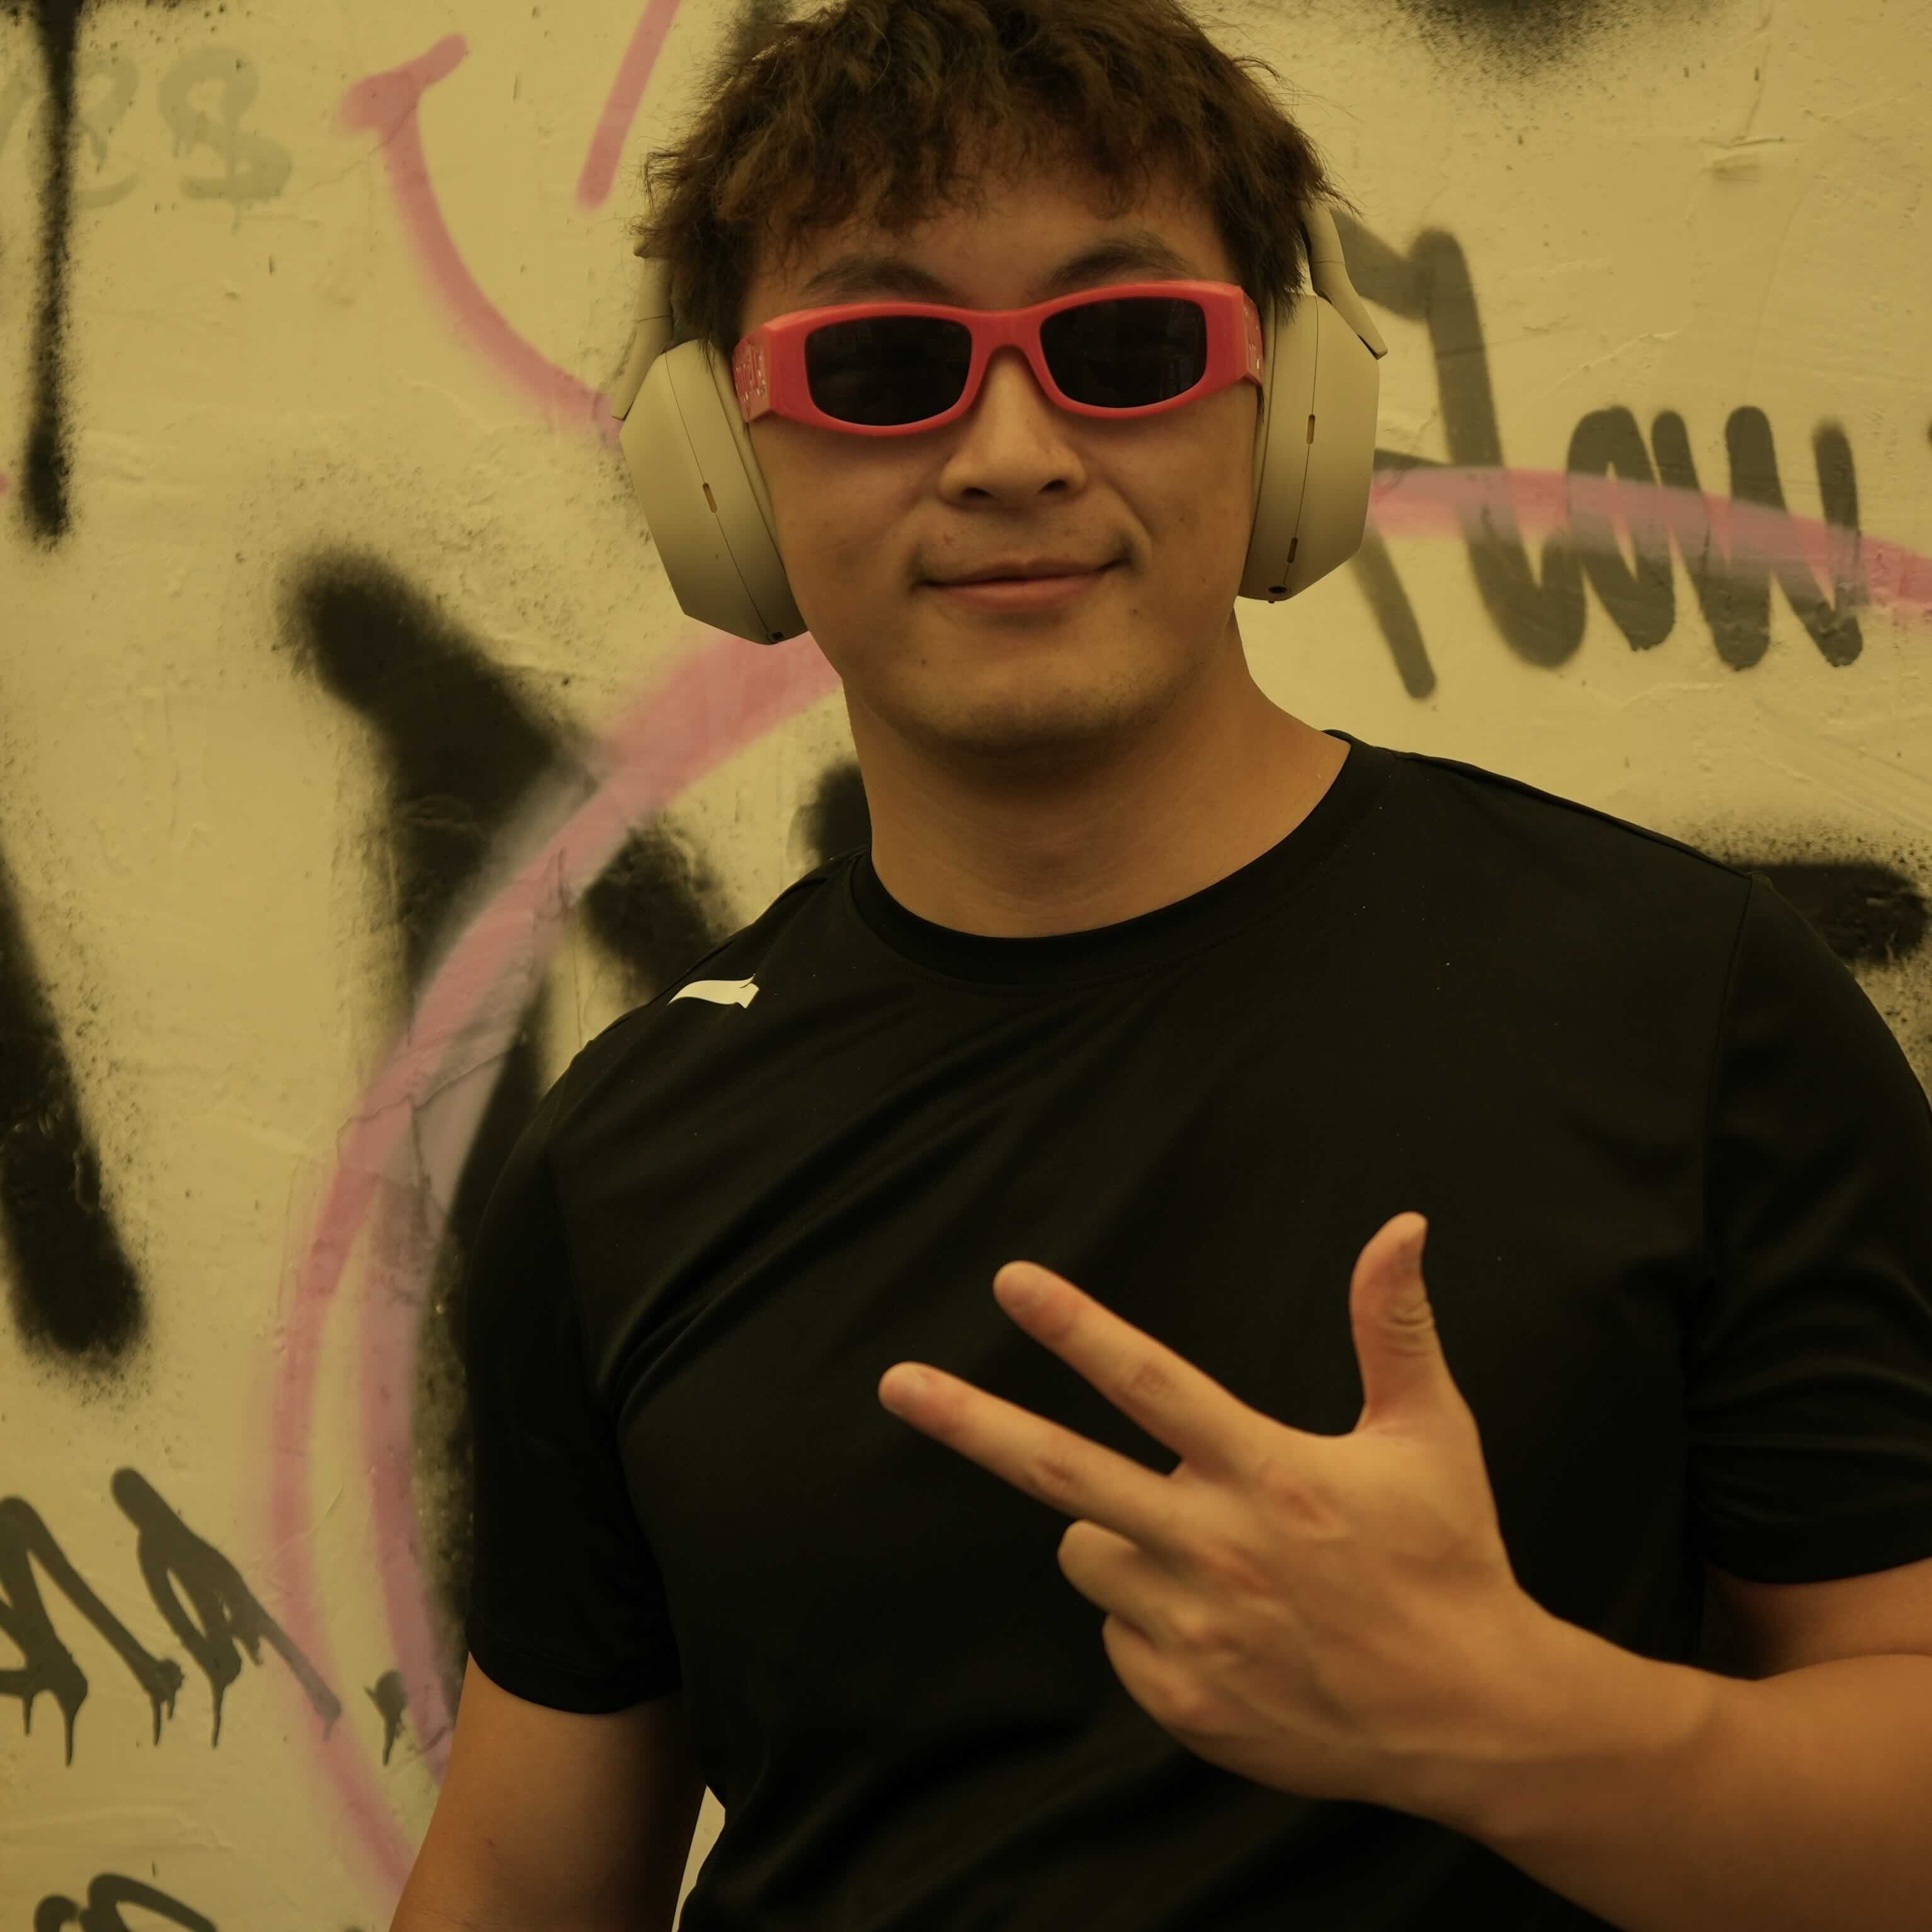
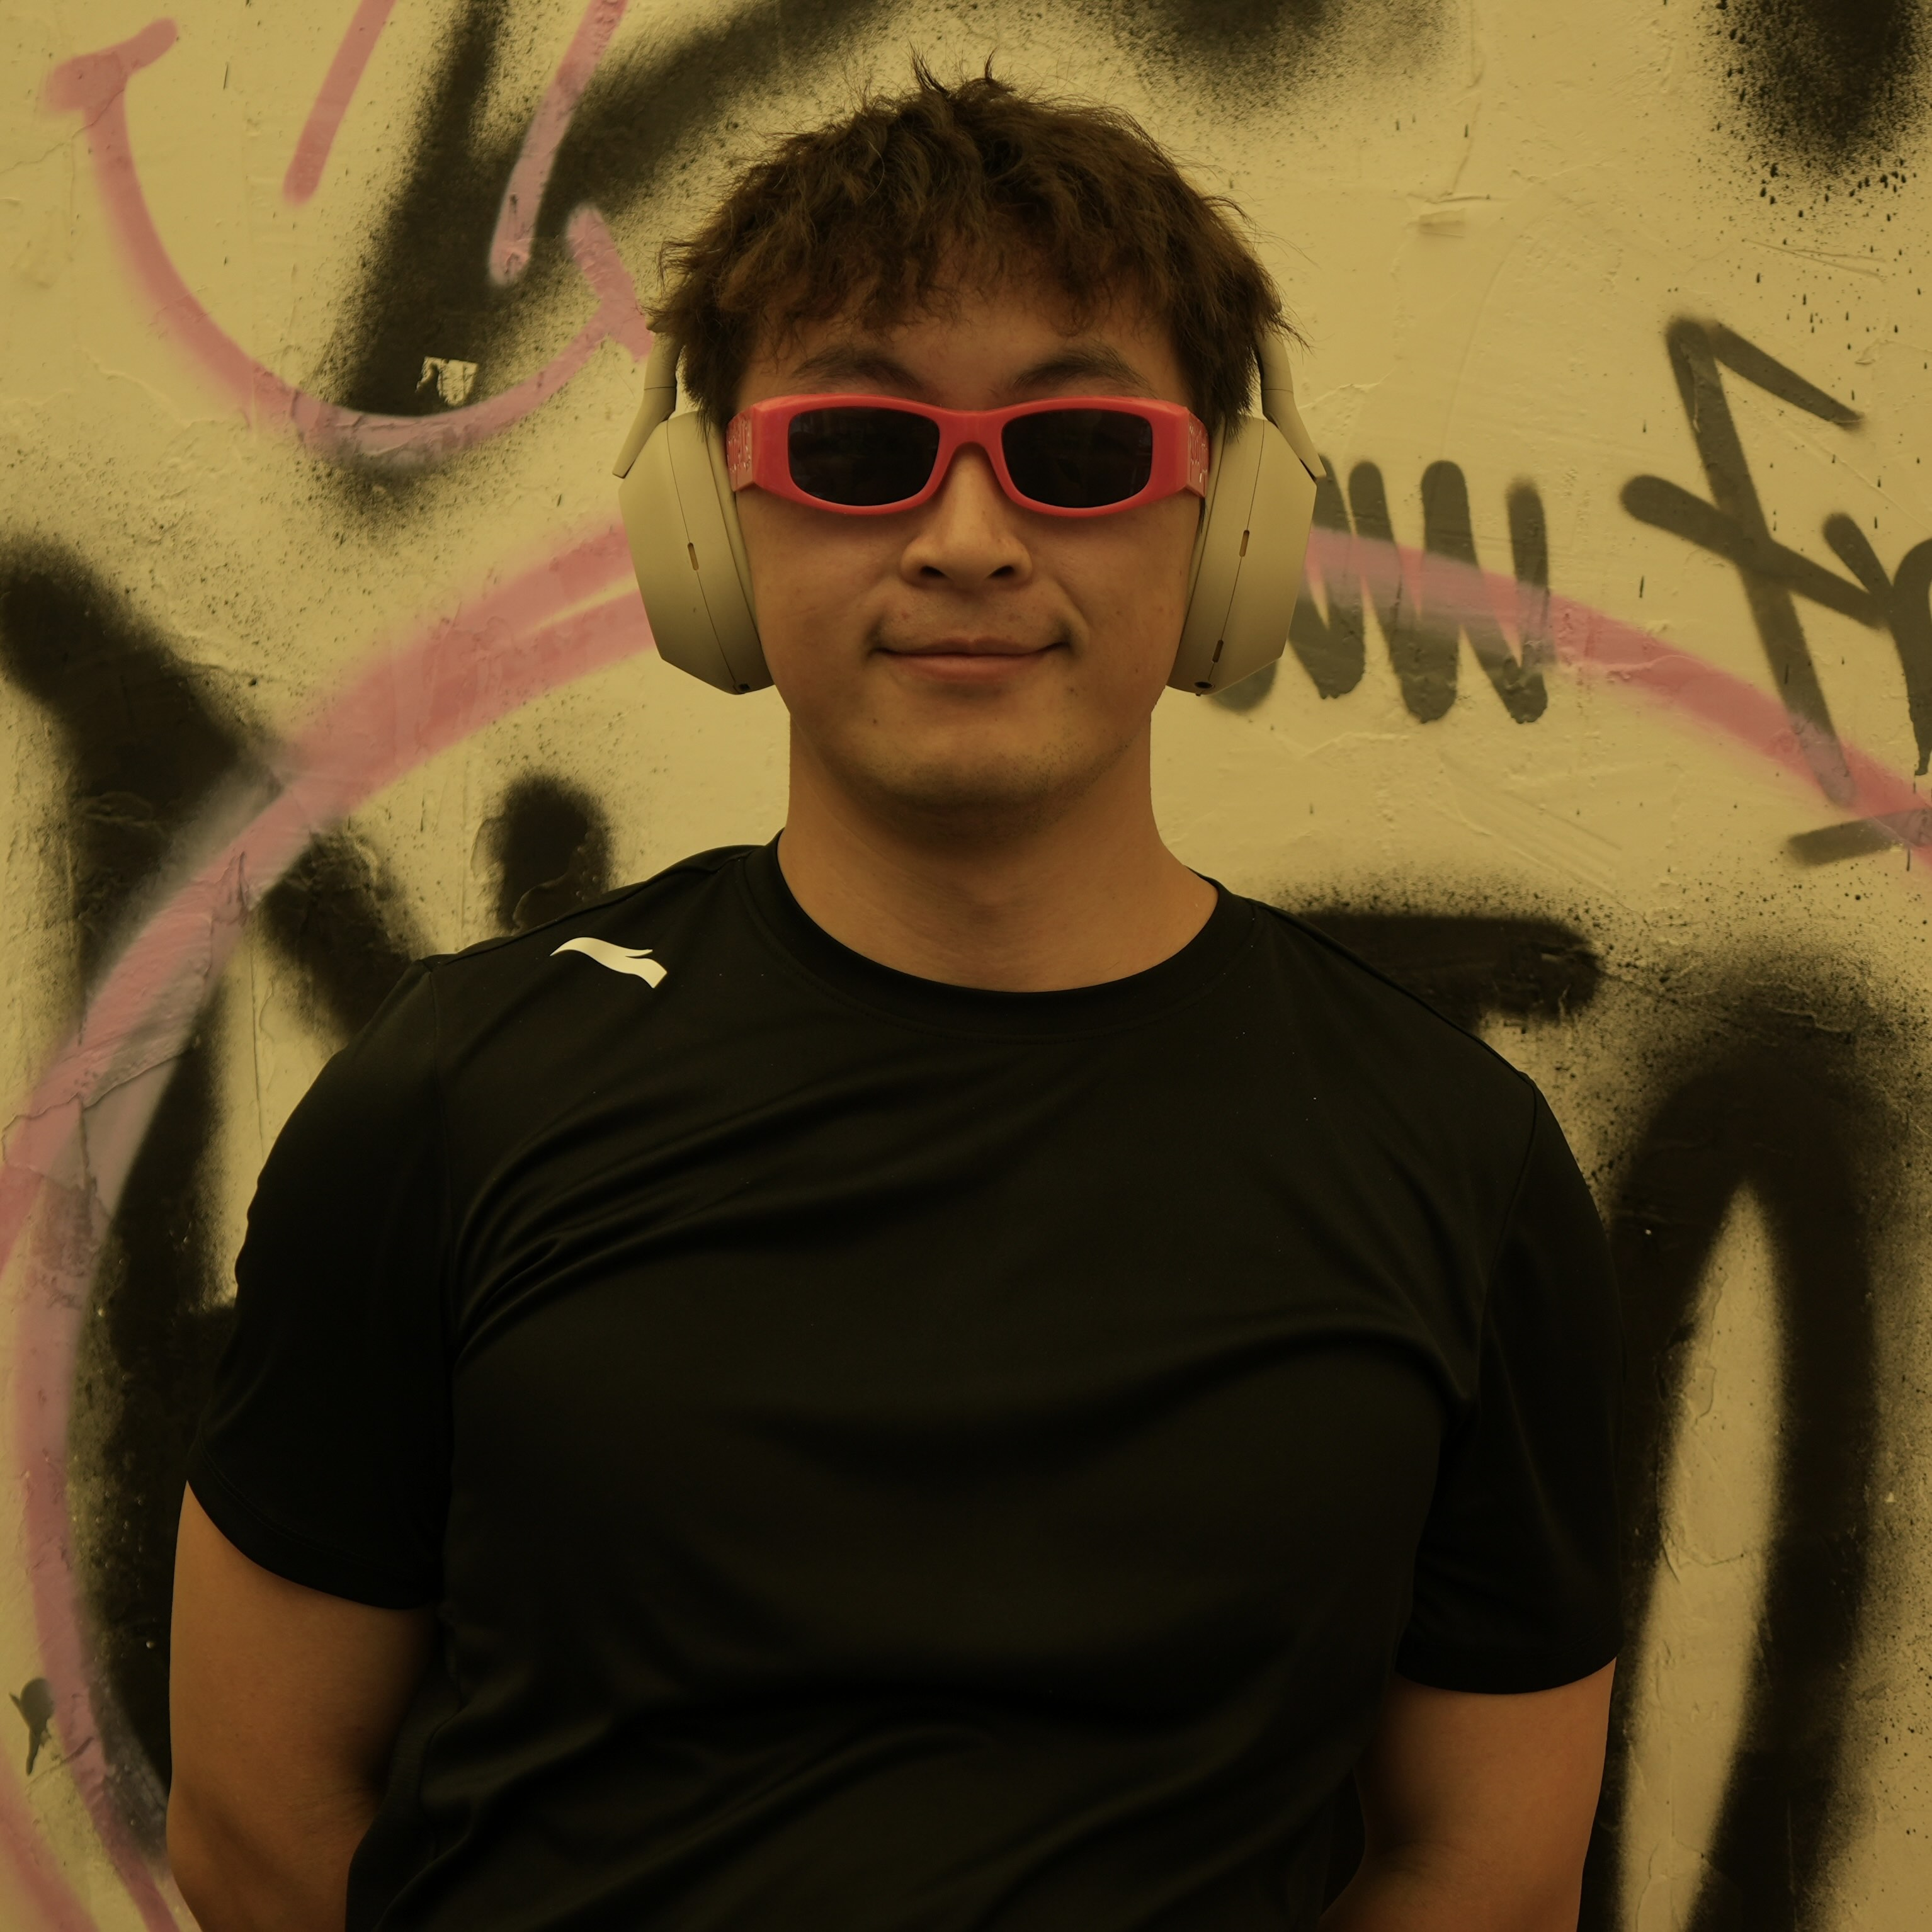
size change

diff --git a/src/app/[slug]/page.tsx b/src/app/[slug]/page.tsx
@@ -46,7 +46,7 @@ export default async function DynamicPage({ params }: { params: Promise<{ slug: 
     }
 
     return (
-        <div className="max-w-5xl mx-auto px-4 sm:px-6 lg:px-8 py-12">
+        <div className="max-w-4xl mx-auto px-4 sm:px-6 lg:px-8 py-12">
             {pageConfig.type === 'publication' && (
                 <PublicationPage config={pageConfig as PublicationPageConfig} />
             )}

diff --git a/src/components/home/SelectedPublications.tsx b/src/components/home/SelectedPublications.tsx
@@ -19,7 +19,7 @@ export default function SelectedPublications({ publications, title = 'Selected P
             transition={{ duration: 0.6, delay: 0.4 }}
         >
             <div className="flex items-center justify-between mb-3">
-                <h2 className="text-2xl font-serif font-bold text-primary">{title}</h2>
+                <h2 className="text-xl font-serif font-bold text-primary">{title}</h2>
                 <Link
                     href={enableOnePageMode ? "/#publications" : "/publications"}
                     prefetch={true}